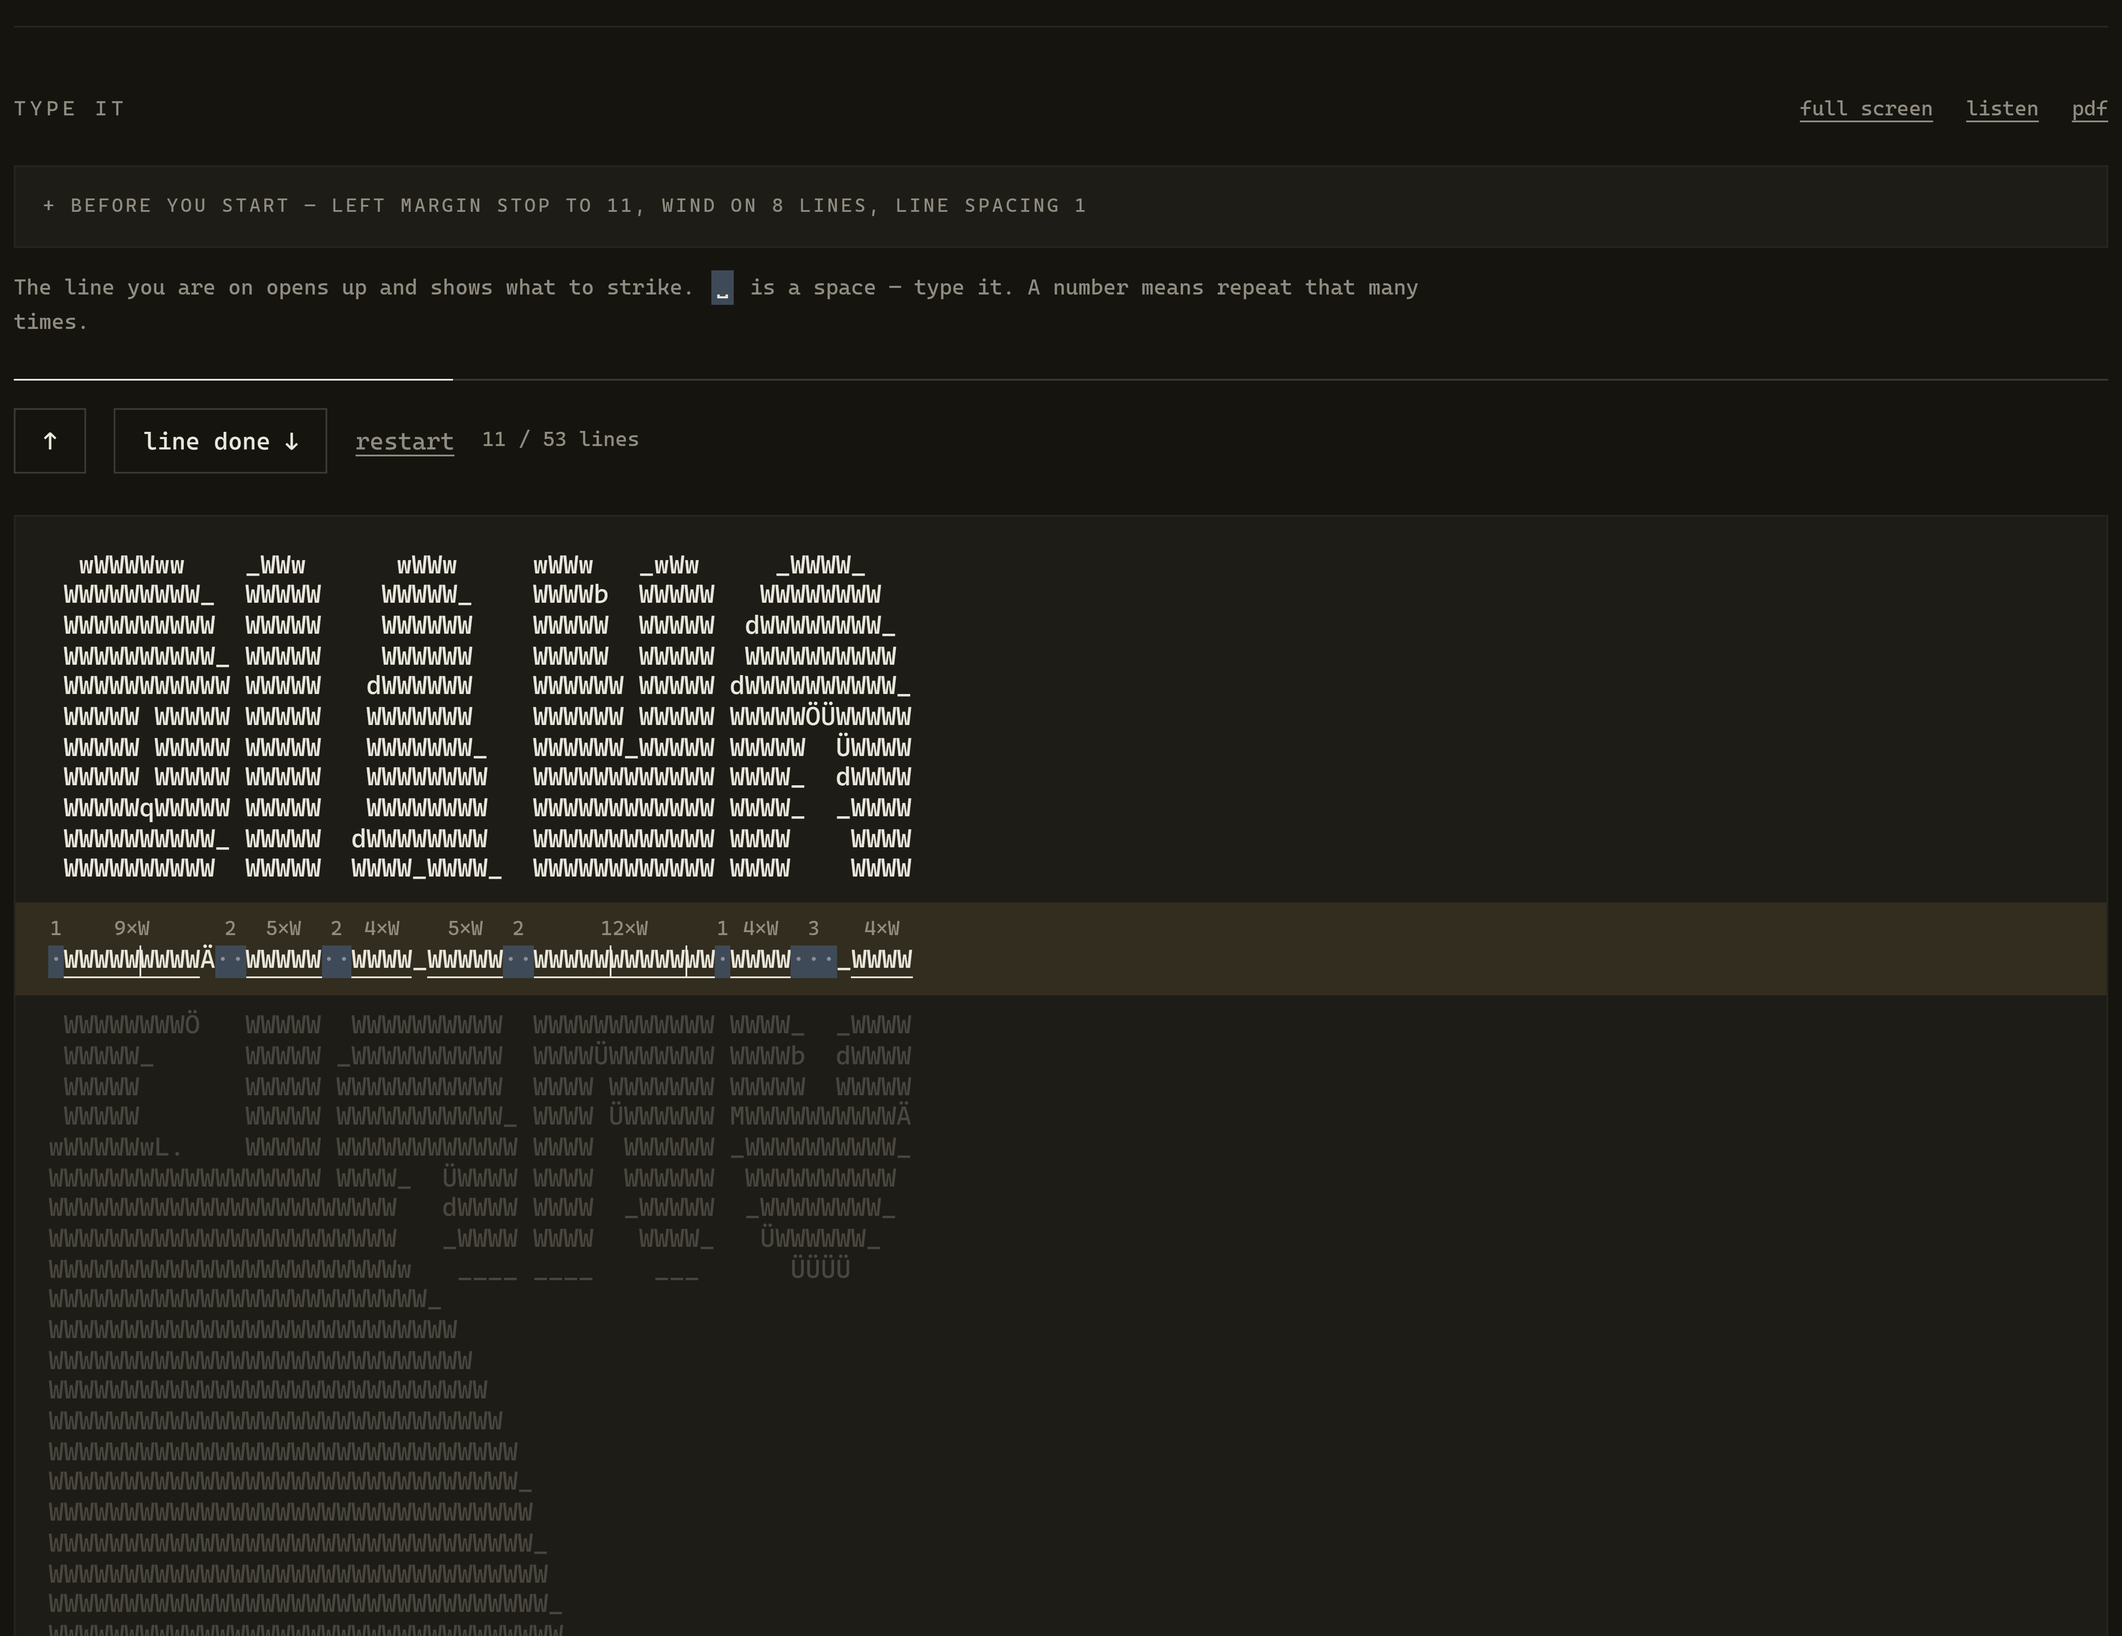
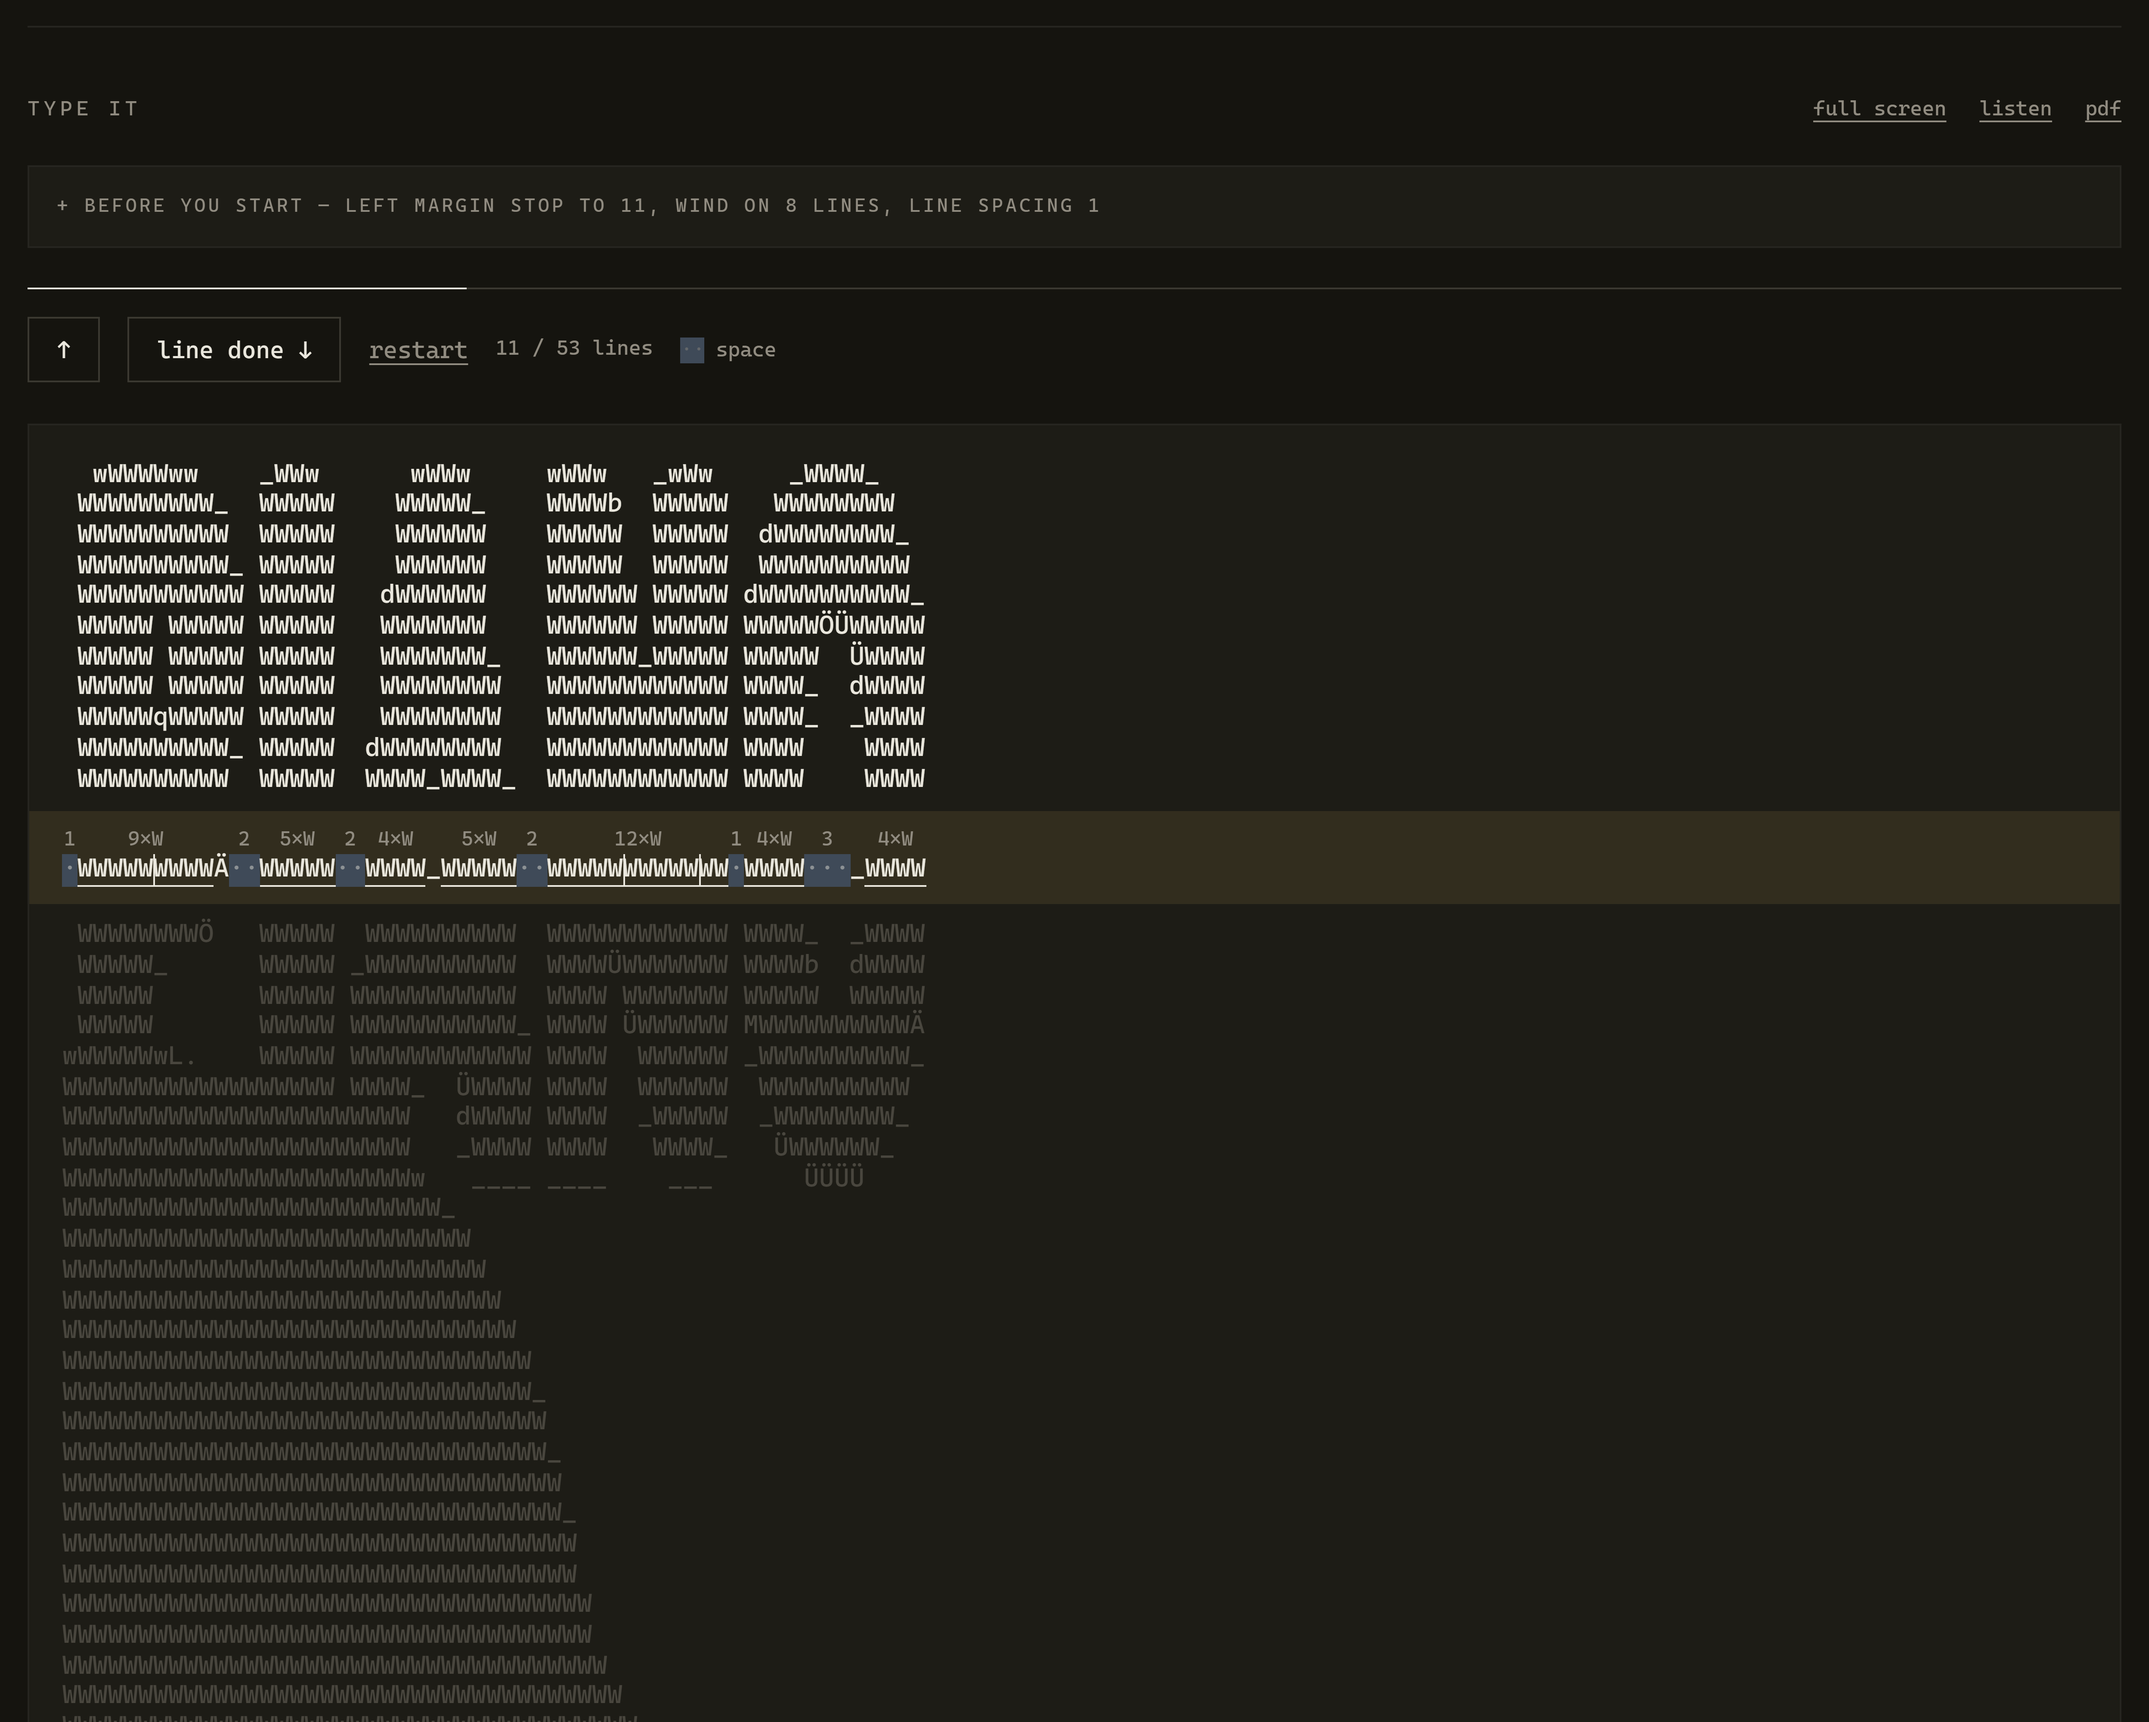
the second copy of the lines goes, and the space says what it is
"Every line at once" listed the whole motif again under the typing sheet,
headed "for looking things up. You should not need it while typing." A
panel that says you should not need it is a panel to remove: a lookup
table you never need while typing is one you read instead of the sheet,
and then you are counting in two places at once - on a job where losing
count by one shifts every column after it.

renderTable() and paintTable() go with it, and app.rows, and the td
styling. The sheet above was always the same information in the form you
actually work from, with the open line expanded into runs.

The legend goes too, and one line of it comes back where it belongs. It
sat above the sheet explaining three things, two of which the sheet says
for itself - a number sits over the run it counts. The one worth naming
is the space, because it is the only mark on the sheet that is not a key
you press, and it now sits in the controls row built from the same
classes the open line is built from. The sample and the sheet have
drifted apart before: the sample drew an open-box glyph while the sheet
drew a tinted cell with a dot in it.

And a favicon, from the same margin release key as the logo. The full
logo has a second rectangle for the key's top face and smaller dots,
which close up into a smudge at 16 px, so this one fills the tile with
thicker strokes and keeps the four dots four dots.

diff --git a/styles.css b/styles.css
@@ -559,10 +559,26 @@ ol.setup span { display: block; color: var(--faint); font-size: 12px; }
 .count { color: var(--faint); font-size: 12px;
          font-variant-numeric: tabular-nums; }
 
-.key-legend { white-space: nowrap; }
-.sp-demo {
-  display: inline-block; background: var(--space); color: var(--ink);
-  padding: 0 0.25em; margin: 0 0.15em;
+/*
+ * The sample space cell at the end of the controls.
+ *
+ * It is a .run.gap .c and nothing else, so whatever the open line draws for
+ * a space is exactly what shows here. It used to be its own little glyph
+ * and the two drifted apart: the key said one thing, the sheet drew
+ * another, and the reader had to guess they meant the same space.
+ *
+ * Fixed at 12px rather than following --sheet-size, which is fitted to the
+ * window and runs anywhere from 8px to 15px. A key that changes size with
+ * the thing it explains reads as part of the picture rather than as a note
+ * about it.
+ *
+ * It sits in the flow of the controls, next to the line count, and not
+ * pushed out to the right edge: a tinted cell on its own in an acre of
+ * empty page reads as something that went wrong, not as a key.
+ */
+.sheet-key {
+  display: inline-flex; align-items: center; gap: 0.4rem;
+  color: var(--faint); font-size: 12px; line-height: 1.18;
 }
 
 /* ── listening ───────────────────────────────────────────────── */
@@ -641,23 +657,6 @@ body.counting .run .c.hit {
 }
 body.counting .run.gap .c.hit::after { opacity: 0.5; }
 
-/* ── table ───────────────────────────────────────────────────── */
-
-.scroll { overflow-x: auto; -webkit-overflow-scrolling: touch; }
-table { border-collapse: collapse; width: max-content; min-width: 100%;
-        font-size: 12px; }
-tr { border-bottom: 1px solid var(--hair); cursor: pointer; }
-tr.now { background: var(--mark); }
-tr.done td { opacity: 0.4; }
-td { padding: 0.5rem 0.9rem 0.5rem 0; vertical-align: baseline; }
-td.n { color: var(--faint); text-align: right; width: 3.4rem;
-       font-variant-numeric: tabular-nums; position: sticky; left: 0;
-       background: var(--paper); padding-right: 1rem; }
-tr.now td.n { background: var(--mark); color: var(--ink); }
-td.rn { white-space: pre; }
-td.rn .red { color: var(--red); }
-td.rn .sp { background: var(--space); }
-
 /* ── nothing to type yet ─────────────────────────────────────── */
 /*
  * An empty motif still produces arithmetic - setUp() dutifully centres
@@ -669,8 +668,7 @@ td.rn .sp { background: var(--space); }
          text-align: center; padding: 2.5rem 1rem; }
 body.empty .blank { display: block; }
 body.empty #stepSetup,
-body.empty #stepSheet,
-body.empty #stepTable { display: none; }
+body.empty #stepSheet { display: none; }
 
 /*
  * The lettering tab previews its own placeholder while the box is empty,
@@ -681,15 +679,13 @@ body.empty #stepTable { display: none; }
  */
 body.ghost #mini { opacity: .55; }
 body.ghost #stepSetup,
-body.ghost #stepSheet,
-body.ghost #stepTable { display: none; }
+body.ghost #stepSheet { display: none; }
 
 /* ── full screen ─────────────────────────────────────────────── */
 
 body.full > header,
 body.full .compose,
 body.full #stepSetup,
-body.full #stepTable,
 body.full footer,
 body.full .lede-sm { display: none; }
 body.full main { max-width: none; padding: 0; }
@@ -723,7 +719,6 @@ dialog menu { display: flex; justify-content: flex-end; gap: 1.3rem;
 @media (max-width: 640px) {
   body { font-size: 13px; }
   section { padding: 1.8rem 0; }
-  td.n { width: 2.6rem; }
   .key { width: 1.7rem; height: 1.7rem; font-size: 11px; }
   .paper-view { max-height: none; }
 }

diff --git a/src/ui/app.js b/src/ui/app.js
@@ -33,7 +33,7 @@ import { parseFlf, flfLetter } from '../core/figlet.js';
 import { StrikeListener, LineTracker, METER_FULL_SCALE } from '../core/listen.js';
 import { buildSheetPdf, downloadPdf } from '../core/pdf.js';
 import {
-  renderSheet, paintSheet, paintStrike, renderTable, paintTable, keepInView,
+  renderSheet, paintSheet, paintStrike, keepInView,
 } from './sheet.js';
 import { renderKeyboard, pick, learnByTyping } from './keyboard.js';
 
@@ -73,7 +73,6 @@ const app = {
   at: 0,              // current line
   strike: 0,          // keystrokes done in the current line
   els: [],
-  rows: [],
   setup: null,
   listener: null,
   tracker: null,      // set while listening: what the count is worth
@@ -1896,9 +1895,7 @@ function draw() {
     $('warnings').innerHTML = '';
     $('instructions').innerHTML = '';
     $('sheet').innerHTML = '';
-    $('table').innerHTML = '';
     app.els = [];
-    app.rows = [];
     $('count').textContent = '';
     $('bar').style.width = '0%';
     return;
@@ -2020,9 +2017,7 @@ function draw() {
   if (app.ghost) {
     $('instructions').innerHTML = '';
     $('sheet').innerHTML = '';
-    $('table').innerHTML = '';
     app.els = [];
-    app.rows = [];
     $('count').textContent = '';
     $('bar').style.width = '0%';
     return;
@@ -2078,23 +2073,6 @@ function draw() {
         `${app.strike} / ${strikesInLine(app.lines[app.at] ?? '')}`;
     };
   });
-
-  /*
-   * The table numbers the lines of the *motif*, the same as everywhere else.
-   *
-   * It used to add the paper feed, so line one of a word centred on A4 was
-   * called line 32 - while the sheet above it, the progress counter and the
-   * typing sheet in the PDF all called it line one. Four places, two
-   * different numbering schemes, and the one that disagreed was the one
-   * headed "for looking things up".
-   *
-   * Motif numbering is the right one because it is the only one you can
-   * check: the paper feed is done once, before typing, and after that
-   * nothing on the page or the machine tells you which absolute line of the
-   * sheet you are on.
-   */
-  app.rows = renderTable($('table'), typing, typingInk);
-  app.rows.forEach((tr, i) => { tr.onclick = () => go(i); });
 
   paint();
 }
@@ -2237,7 +2215,6 @@ const ordinalWord = (n) => ORDINAL_WORDS[n - 1] ?? `${n}th`;
 
 function paint(previous = -1) {
   paintSheet(app.els, app.lines, app.colours, app.at, app.strike, previous);
-  paintTable(app.rows, app.at);
 
   const n = app.lines.length || 1;
   $('bar').style.width = `${Math.round(app.at / n * 100)}%`;

diff --git a/src/ui/sheet.js b/src/ui/sheet.js
@@ -5,8 +5,9 @@
  * are on opens up *in place* and shows what to type. Lines behind are inked,
  * lines ahead are pale. Nothing else moves.
  *
- * The full table lives further down the page for looking things up, but you
- * should never need it while typing.
+ * There is no second copy of the same lines further down the page. A
+ * lookup table you never need while typing is a lookup table you read
+ * instead of the sheet, and then you are counting in two places at once.
  */
 
 import { runsOf } from '../core/runs.js';
@@ -114,40 +115,6 @@ export function paintSheet(els, lines, colours, at, strike, previous = -1) {
 export function paintStrike(els, lines, colours, at, strike) {
   if (at < 0 || at >= els.length) return;
   els[at].innerHTML = openLine(lines[at], colours?.[at], strike);
-}
-
-/**
- * The reference table. Same information, all lines at once.
- *
- * Numbered from the motif, like the sheet above it, the progress counter and
- * the typing sheet in the PDF. It used to add the paper feed on top, so the
- * first line of a word centred on A4 was called line 32 here and line 1
- * everywhere else — in the one panel headed "for looking things up".
- */
-export function renderTable(host, lines, colours) {
-  host.innerHTML = lines.map((line, i) => {
-    const runs = runsOf(line, colours?.[i]);
-    const text = runs.length
-      ? runs.map((r) => {
-          // Spaces get a tinted marker, not an underscore: an underscore is
-          // also a character you can type, so using it for "space" is one
-          // more thing to misread.
-          if (r.space) return `<span class="sp">${'\u00b7'.repeat(r.n)}</span>`;
-          const t = r.n > 1 ? `${r.n}${esc(r.ch)}` : esc(r.ch);
-          return r.red ? `<span class="red">${t}</span>` : t;
-        }).join('  ')
-      : '<span style="opacity:.4">empty</span>';
-    return `<tr data-i="${i}"><td class="n">${i + 1}</td>` +
-           `<td class="rn">${text}</td></tr>`;
-  }).join('');
-  return [...host.querySelectorAll('tr')];
-}
-
-export function paintTable(rows, at) {
-  rows.forEach((tr, i) => {
-    tr.classList.toggle('done', i < at);
-    tr.classList.toggle('now', i === at);
-  });
 }
 
 /**

diff --git a/index.html b/index.html
@@ -6,6 +6,8 @@
 <title>Typewriter ASCII</title>
 <meta name="description" content="Turn images and text into ASCII art you can actually type on a mechanical typewriter.">
 <meta name="color-scheme" content="light dark">
+<link rel="icon" href="/favicon.ico" sizes="32x32">
+<link rel="icon" href="/favicon.svg" type="image/svg+xml">
 <link rel="stylesheet" href="/styles.css">
 </head>
 <body>
@@ -526,18 +528,24 @@
     <ol class="setup" id="instructions"></ol>
   </details>
 
-  <p class="lede-sm">
-    The line you are on opens up and shows what to strike.
-    <span class="key-legend"><span class="sp-demo">␣</span> is a space — type it.</span>
-    A number means repeat that many times.
-  </p>
-
   <div class="progress"><i id="bar"></i></div>
   <div class="controls">
     <button id="prev">&uarr;</button>
     <button id="next">line done &darr;</button>
     <button id="restart" class="link">restart</button>
     <span class="count" id="count"></span>
+    <!--
+      The one mark on the sheet that is not a key you press, so it is the
+      one thing worth naming. The rest the open line says for itself: a
+      number sits over the run it counts.
+
+      Built from the classes the open line is built from, because the
+      sample and the sheet have drifted apart before - the sample was an
+      open-box glyph while the sheet drew a tinted cell with a dot in it.
+    -->
+    <span class="sheet-key">
+      <span class="run gap"><span class="c">&nbsp;</span><span class="c">&nbsp;</span></span>space
+    </span>
   </div>
 
   <div id="ear" hidden>
@@ -569,13 +577,6 @@
   </div>
 
   <div class="sheet" id="sheet"></div>
-</section>
-
-<!-- ══ reference ═════════════════════════════════════════════ -->
-<section id="stepTable">
-  <h2>Every line at once</h2>
-  <p class="lede-sm">For looking things up. You should not need it while typing.</p>
-  <div class="scroll"><table id="table"></table></div>
 </section>
 
 </main>
